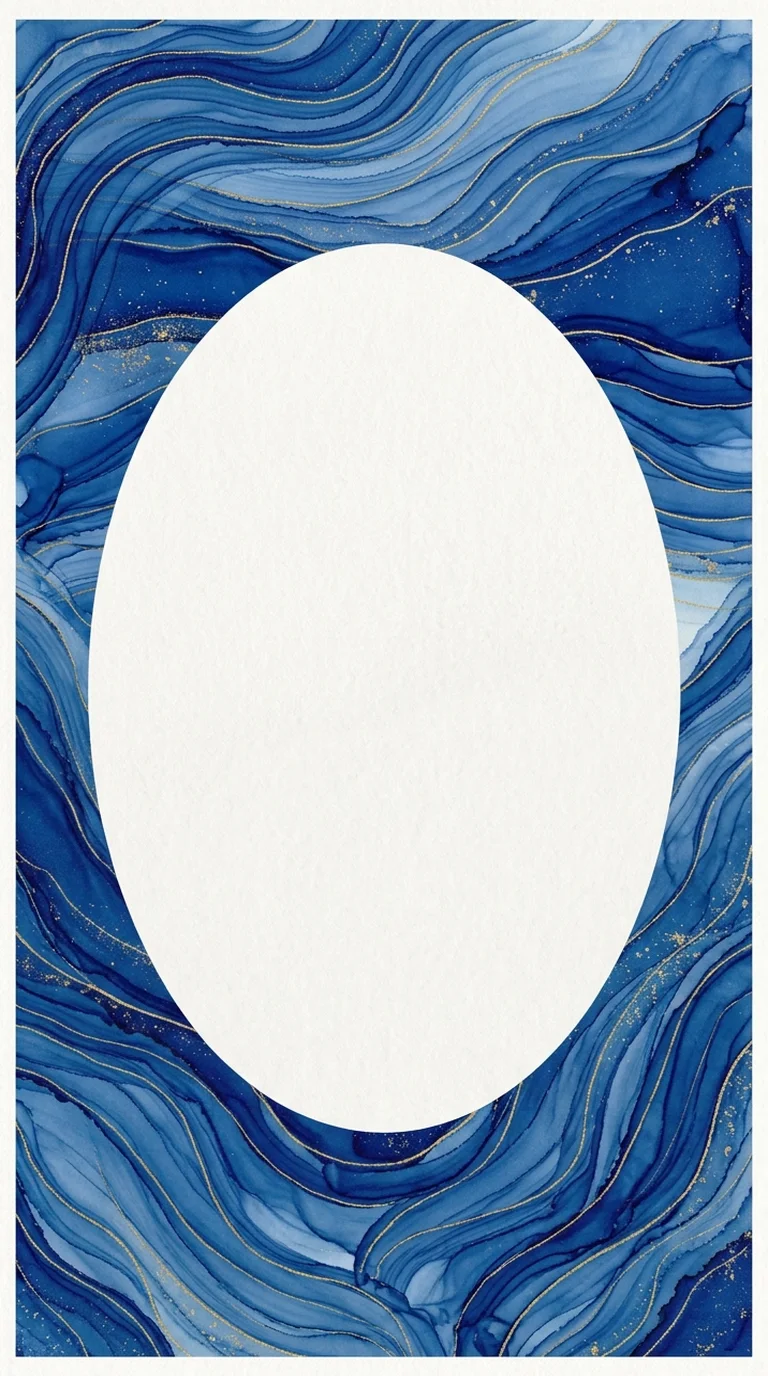
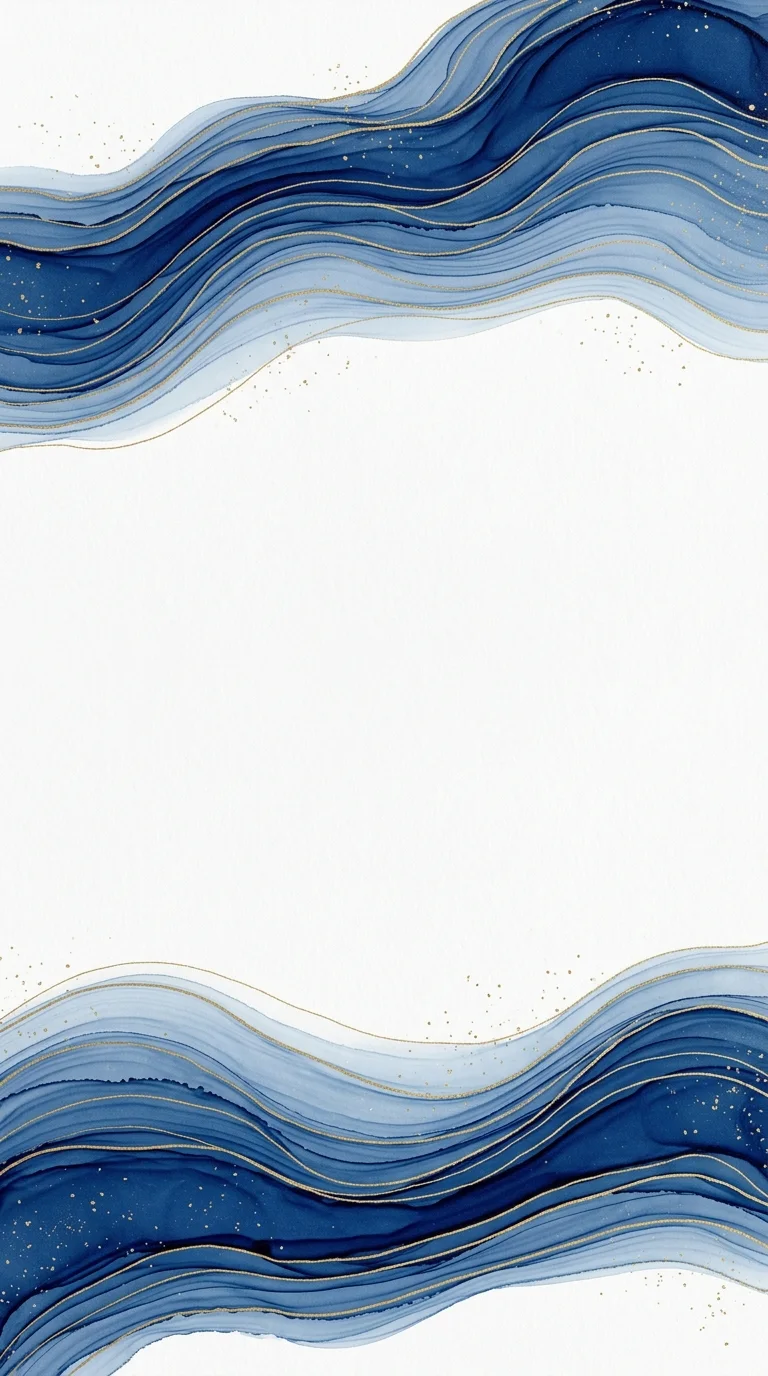
feat: fondo franja para el mensaje, mapa Esri calles

diff --git a/src/app/_components/InvitationClient.tsx b/src/app/_components/InvitationClient.tsx
@@ -799,8 +799,8 @@ function SectionTitle({ eyebrow, title }: { eyebrow?: string; title: string }) {
    ═══════════════════════════════════════════════════════ */
 function Mensaje() {
   return (
-    <Section className="fx ink-oval halo" bg="transparent" style={{ minHeight: 600, display: "flex", alignItems: "center", justifyContent: "center", paddingLeft: 56, paddingRight: 56 }}>
-      <InView style={{ maxWidth: 230, margin: "0 auto" }} amount={0.35}>
+    <Section className="fx ink-oval halo" bg="transparent" style={{ minHeight: 720, display: "flex", alignItems: "center", justifyContent: "center", paddingLeft: 28, paddingRight: 28 }}>
+      <InView style={{ maxWidth: 340, margin: "0 auto" }} amount={0.35}>
         <WordReveal
           text="Medio siglo de vida, de trabajo y de cariño. Con el corazón agradecido, tenemos el honor de invitarte a celebrar los 50 años de Raúl Argüelles Rivera"
           style={{

diff --git a/src/app/globals.css b/src/app/globals.css
@@ -290,7 +290,7 @@ html.io-unavailable main [style*="translate"] {
   -webkit-mask-image: linear-gradient(to bottom, #000 0, #000 55%, rgba(0,0,0,.35) calc(100% - var(--fade) * .45), transparent 100%);
           mask-image: linear-gradient(to bottom, #000 0, #000 55%, rgba(0,0,0,.35) calc(100% - var(--fade) * .45), transparent 100%); }
 /* Mensaje dentro del óvalo */
-.ink-oval::before { background: url(/tinta-oval.webp) center / auto 100% no-repeat; inset: 0 -8%; animation-duration: 30s; }
+.ink-oval::before { background: url(/tinta-oval.webp?v=2) center / cover no-repeat; inset: 0 -8%; animation-duration: 20s; }
 /* Tinta suave detrás de itinerario y regalos */
 .ink-soft::before { background: url(/tinta-hero.webp) center / cover; opacity: .42; filter: blur(1.5px); }
 .ink-soft-b::before { background-image: url(/tinta-corner.webp); background-size: cover; opacity: .5; animation-direction: alternate-reverse; }

diff --git a/src/app/_components/VenueMap.tsx b/src/app/_components/VenueMap.tsx
@@ -24,10 +24,9 @@ export function VenueMap() {
         dragging: !L.Browser.mobile,
         attributionControl: true,
       });
-      L.tileLayer("https://{s}.basemaps.cartocdn.com/rastertiles/voyager/{z}/{x}/{y}{r}.png", {
+      L.tileLayer("https://server.arcgisonline.com/ArcGIS/rest/services/World_Street_Map/MapServer/tile/{z}/{y}/{x}", {
         maxZoom: 19,
-        subdomains: "abcd",
-        attribution: "© OpenStreetMap · © CARTO",
+        attribution: "Esri",
       }).addTo(map);
       L.control.zoom({ position: "bottomright" }).addTo(map);
       const icon = L.divIcon({
